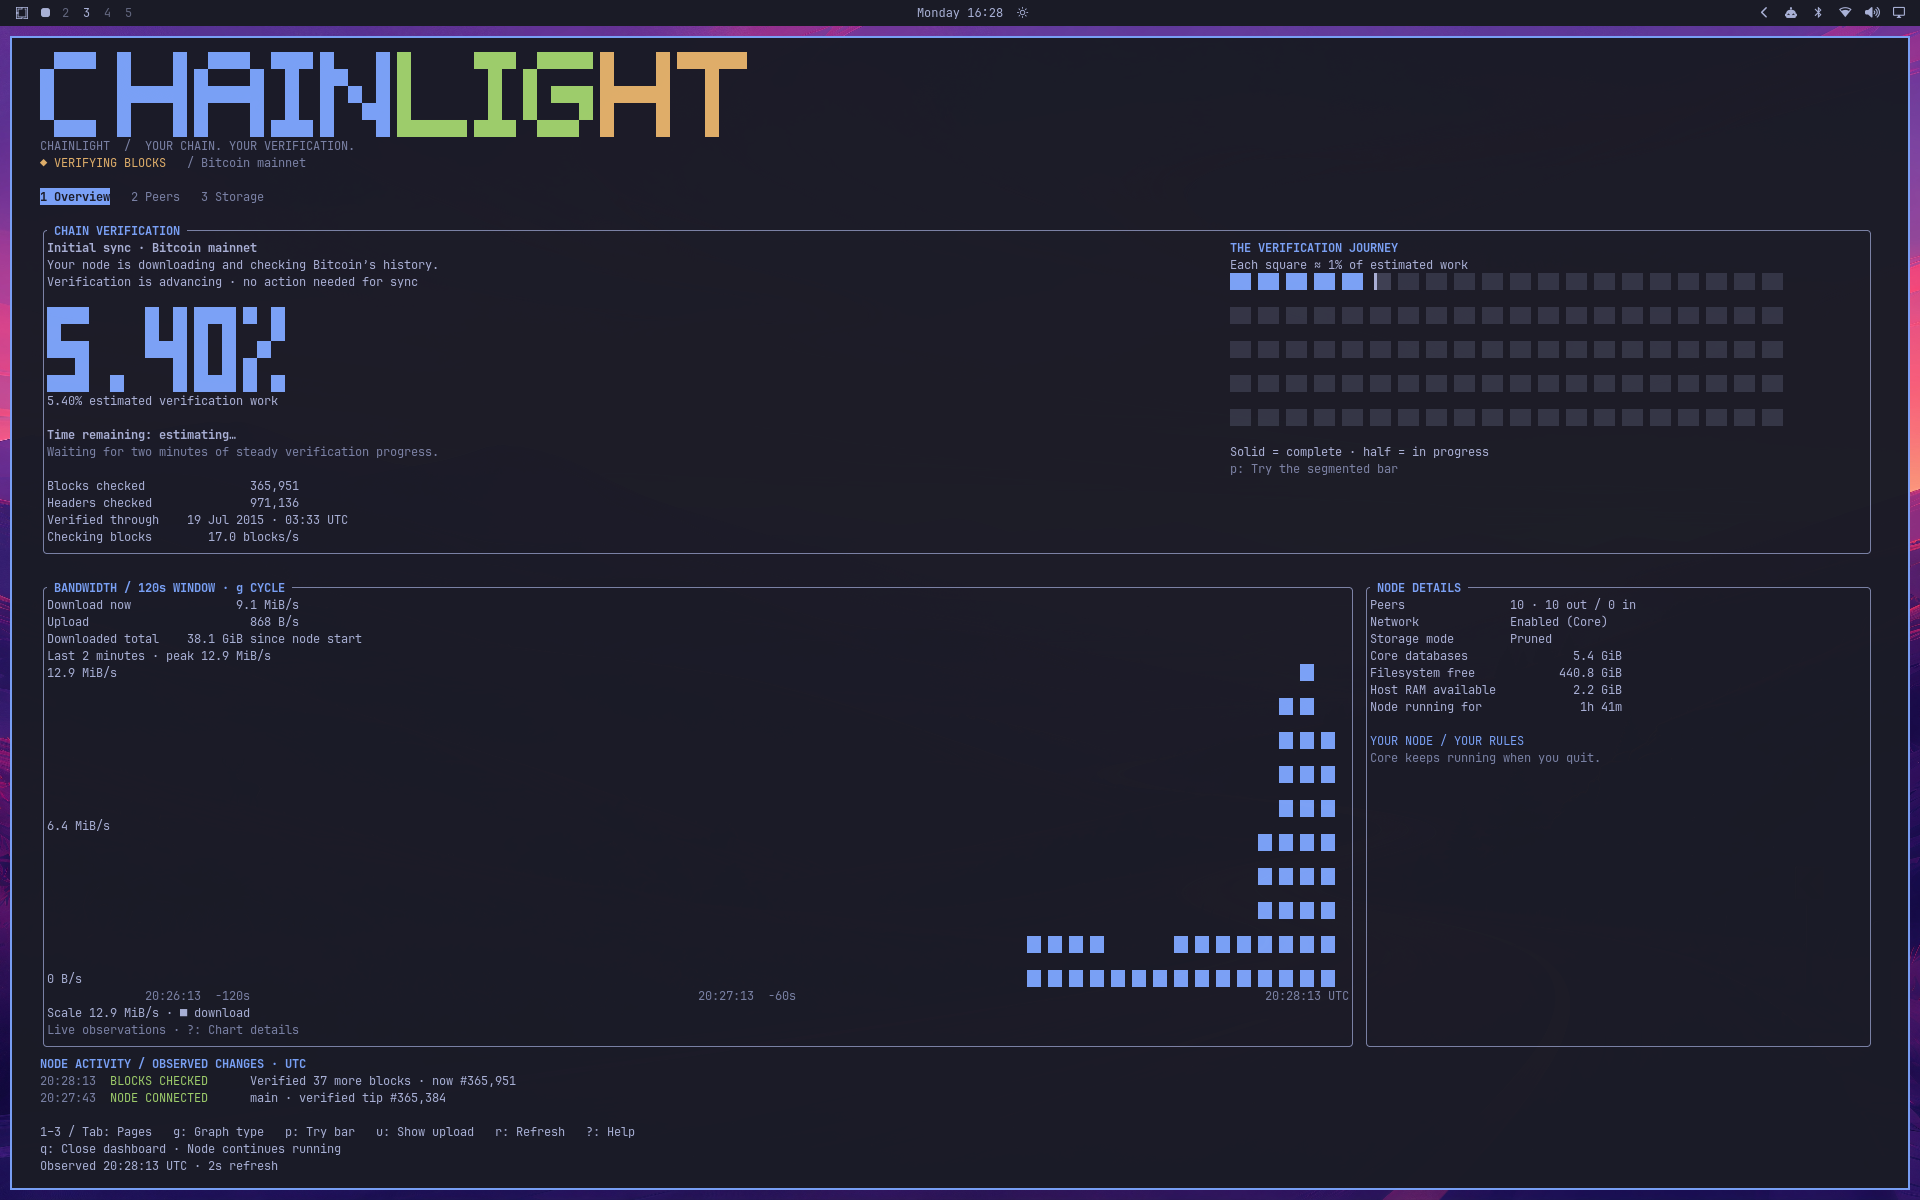
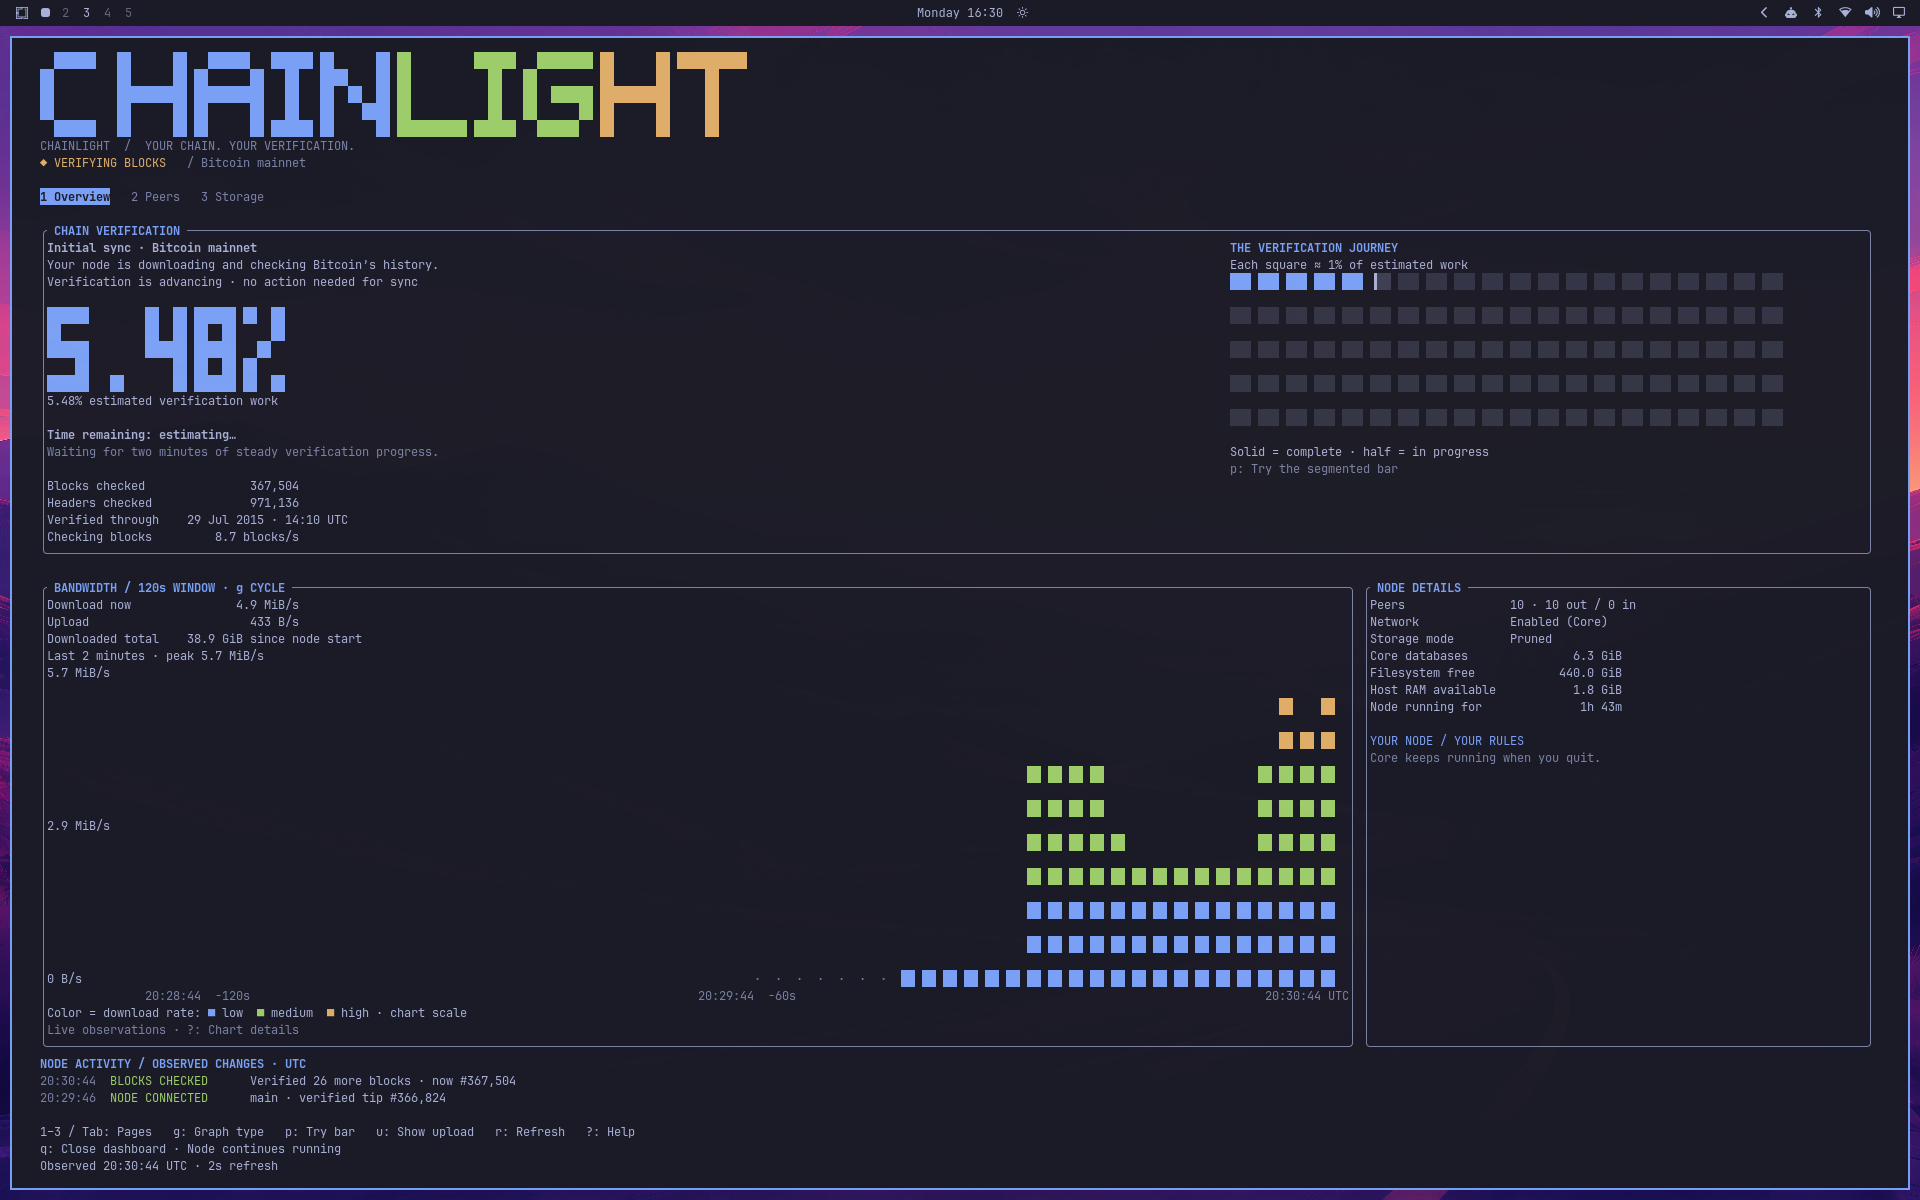
Restore pixel rate colors with an explicit chart legend

diff --git a/src/ui.rs b/src/ui.rs
@@ -1242,10 +1242,17 @@ fn pixel_histogram(frame: &mut Frame, area: Rect, app: &App, p: &Palette) {
         };
         let ratio = if scale == 0.0 { 0.0 } else { value / scale };
         let filled = (ratio * f64::from(rows)).ceil() as u16;
-        let color = p.accent;
         let x = area.x + scale_width + column as u16 * column_step;
         for row in 0..filled.min(rows) {
             let y = graph_y + chart_height - 1 - row * row_step;
+            let level = f64::from(row + 1) / f64::from(rows);
+            let color = if level <= 0.35 {
+                p.accent
+            } else if level <= 0.70 {
+                p.green
+            } else {
+                p.yellow
+            };
             frame.render_widget(
                 Paragraph::new("█".repeat(usize::from(pixel_width)))
                     .style(Style::default().fg(color)),
@@ -1266,7 +1273,7 @@ fn pixel_histogram(frame: &mut Frame, area: Rect, app: &App, p: &Palette) {
             let level = (up / scale * f64::from(rows)).ceil() as u16;
             let y = graph_y + chart_height - 1 - level.saturating_sub(1).min(rows - 1) * row_step;
             frame.render_widget(
-                Paragraph::new("◆").style(Style::default().fg(p.green)),
+                Paragraph::new("◆").style(Style::default().fg(p.foreground)),
                 Rect::new(x, y, 1, 1),
             );
         }
@@ -1311,24 +1318,28 @@ fn pixel_histogram(frame: &mut Frame, area: Rect, app: &App, p: &Palette) {
             1,
         ),
     );
+    let label = if area.width < 85 {
+        "Color = rate: "
+    } else if app.graph == GraphKind::Bandwidth {
+        "Color = download rate: "
+    } else {
+        "Color = checking rate: "
+    };
+    let mut legend = vec![
+        Span::raw(label),
+        Span::styled("■", Style::default().fg(p.accent)),
+        Span::raw(" low  "),
+        Span::styled("■", Style::default().fg(p.green)),
+        Span::raw(" medium  "),
+        Span::styled("■", Style::default().fg(p.yellow)),
+        Span::raw(" high · chart scale"),
+    ];
+    if upload {
+        legend.push(Span::styled("  ◆", Style::default().fg(p.foreground)));
+        legend.push(Span::raw(" upload"));
+    }
     frame.render_widget(
-        Paragraph::new(if upload {
-            format!(
-                "Scale {} · ■ download / ◆ upload · u: Hide upload",
-                graph_rate(app.graph, scale)
-            )
-        } else {
-            format!(
-                "Scale {} · ■ {}",
-                graph_rate(app.graph, scale),
-                if app.graph == GraphKind::Bandwidth {
-                    "download"
-                } else {
-                    "checking rate"
-                }
-            )
-        })
-        .style(Style::default().fg(p.foreground)),
+        Paragraph::new(Line::from(legend)).style(Style::default().fg(p.foreground)),
         Rect::new(area.x, graph_y + chart_height + 1, area.width, 1),
     );
     let state = if app.stale() {
@@ -1562,7 +1573,8 @@ fn help(frame: &mut Frame, area: Rect, p: &Palette) {
         "",
         "READING THE CHART",
         "Each column averages measured activity in its time interval; the window spans 120 seconds.",
-        "Height shows volume. Solid pixels show download/checking activity, not a health verdict.",
+        "Blue/green/amber pixels show low/medium/high rate relative to the chart scale, not health.",
+        "The color bands divide the scale at 35% and 70%. Upload uses contrasting diamond markers.",
         "Diamond markers show upload on the same scale. The labeled upper bound grows immediately",
         "for new peaks and falls gradually (about a 30-second decay) when older peaks expire.",
         "Dots mean measured zero; empty intervals mean no observation. Held history is labeled.",

diff --git a/README.md b/README.md
@@ -76,8 +76,10 @@ when Core lacks enough observations.
 
 The pixel activity chart spans 120 seconds with UTC time labels. Each column
 is a time-weighted average of measured rates; its height and color use the
-visible chart scale. A single hue denotes download/checking volume; upload uses
-diamond markers in a second hue on the same scale. The vertical scale is labeled,
+visible chart scale. Blue, green, and amber bands show low, medium, and high
+rates, divided at 35% and 70% of the scale; they do not indicate node health.
+A colored legend explains the bands. Upload uses contrasting diamond markers
+on the same scale. The vertical scale is labeled,
 expands immediately for new peaks, and falls gradually with a 30-second decay
 after old peaks expire. The current rate and last-two-minute peak are explicit.
 Blank intervals mean no sample; dots mean measured zero (explained in Help).
